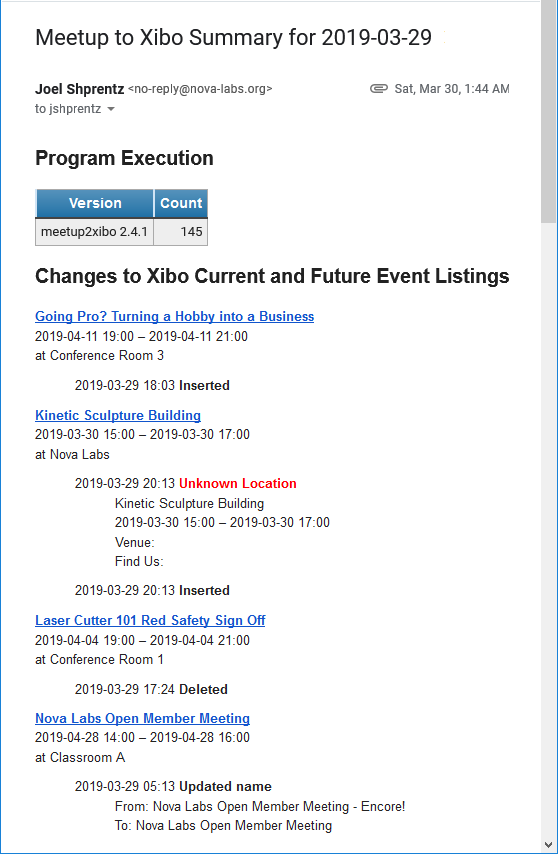
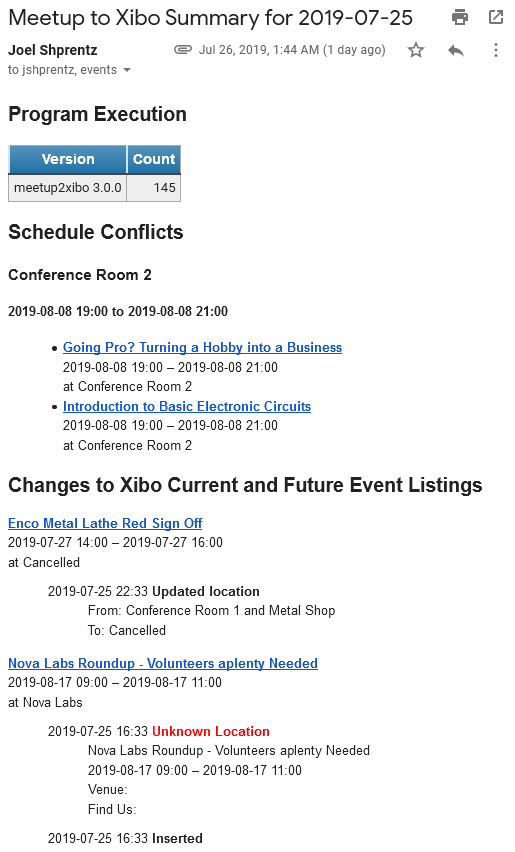
Document logging and reporting schedule conflicts.

diff --git a/docs/user-manual/cron-jobs.rst b/docs/user-manual/cron-jobs.rst
@@ -56,14 +56,18 @@ via email to the cron user.
 Meetup2xibo will log info and higher messages to the default
 :file:`meetup2xibo.log` file.
 
-Late each day, cron runs meetup2xibo with the :option:`-m <meetup2xibo -m>`
-option to log all location mappings from Meetup.com's venue name and
-how-to-find-us fields to Xibo's location.
-This run is scheduled to avoid the every-10-minute runs.
-The following crontab line schedules a meetup2xibo location mapping run every
-night before midnight::
+Late each day, cron runs meetup2xibo with two extra options:
 
-   48 23 * * * cd ~/meetup2xibo && . ./meetup2xibo.env && meetup2xibo -w -m
+- :option:`-c <meetup2xibo -c>` to log schedule conflicts
+
+- :option:`-m <meetup2xibo -m>` to log all location mappings from Meetup.com's
+  venue name and how-to-find-us fields to Xibo's location
+
+This run is scheduled to avoid the every-10-minute runs.
+The following crontab line schedules a schedule conflict and location mapping
+meetup2xibo run every night before midnight::
+
+   48 23 * * * cd ~/meetup2xibo && . ./meetup2xibo.env && meetup2xibo -w -c -m
 
 .. _`summarizer-cron-job`:
 

diff --git a/docs/user-manual/logging.rst b/docs/user-manual/logging.rst
@@ -57,6 +57,7 @@ Summarize-m2x-logs summarizes one or more meetup2xibo log files.
 The summary includes:
 
 - Counts of meetup2xibo runs, by version
+- Lists of schedule conflicts
 - Lists of events inserted, updated, deleted, and retired
 - Field-by-field details of updated events
 - Warnings about missing event locations
@@ -72,7 +73,8 @@ HTML-formatted results via email.
    :name: summary-email
    :align: center
 
-   The daily summary email message count meetup2xibo runs and list Xibo event changes.
+   The daily summary email message counts meetup2xibo runs, lists schedule
+   conflicts, and lists Xibo event changes.
 
 An email message attachment contains a CSV formatted file listing the
 conversions from Meetup.com venue name and how-to-find-us fields to Xibo
